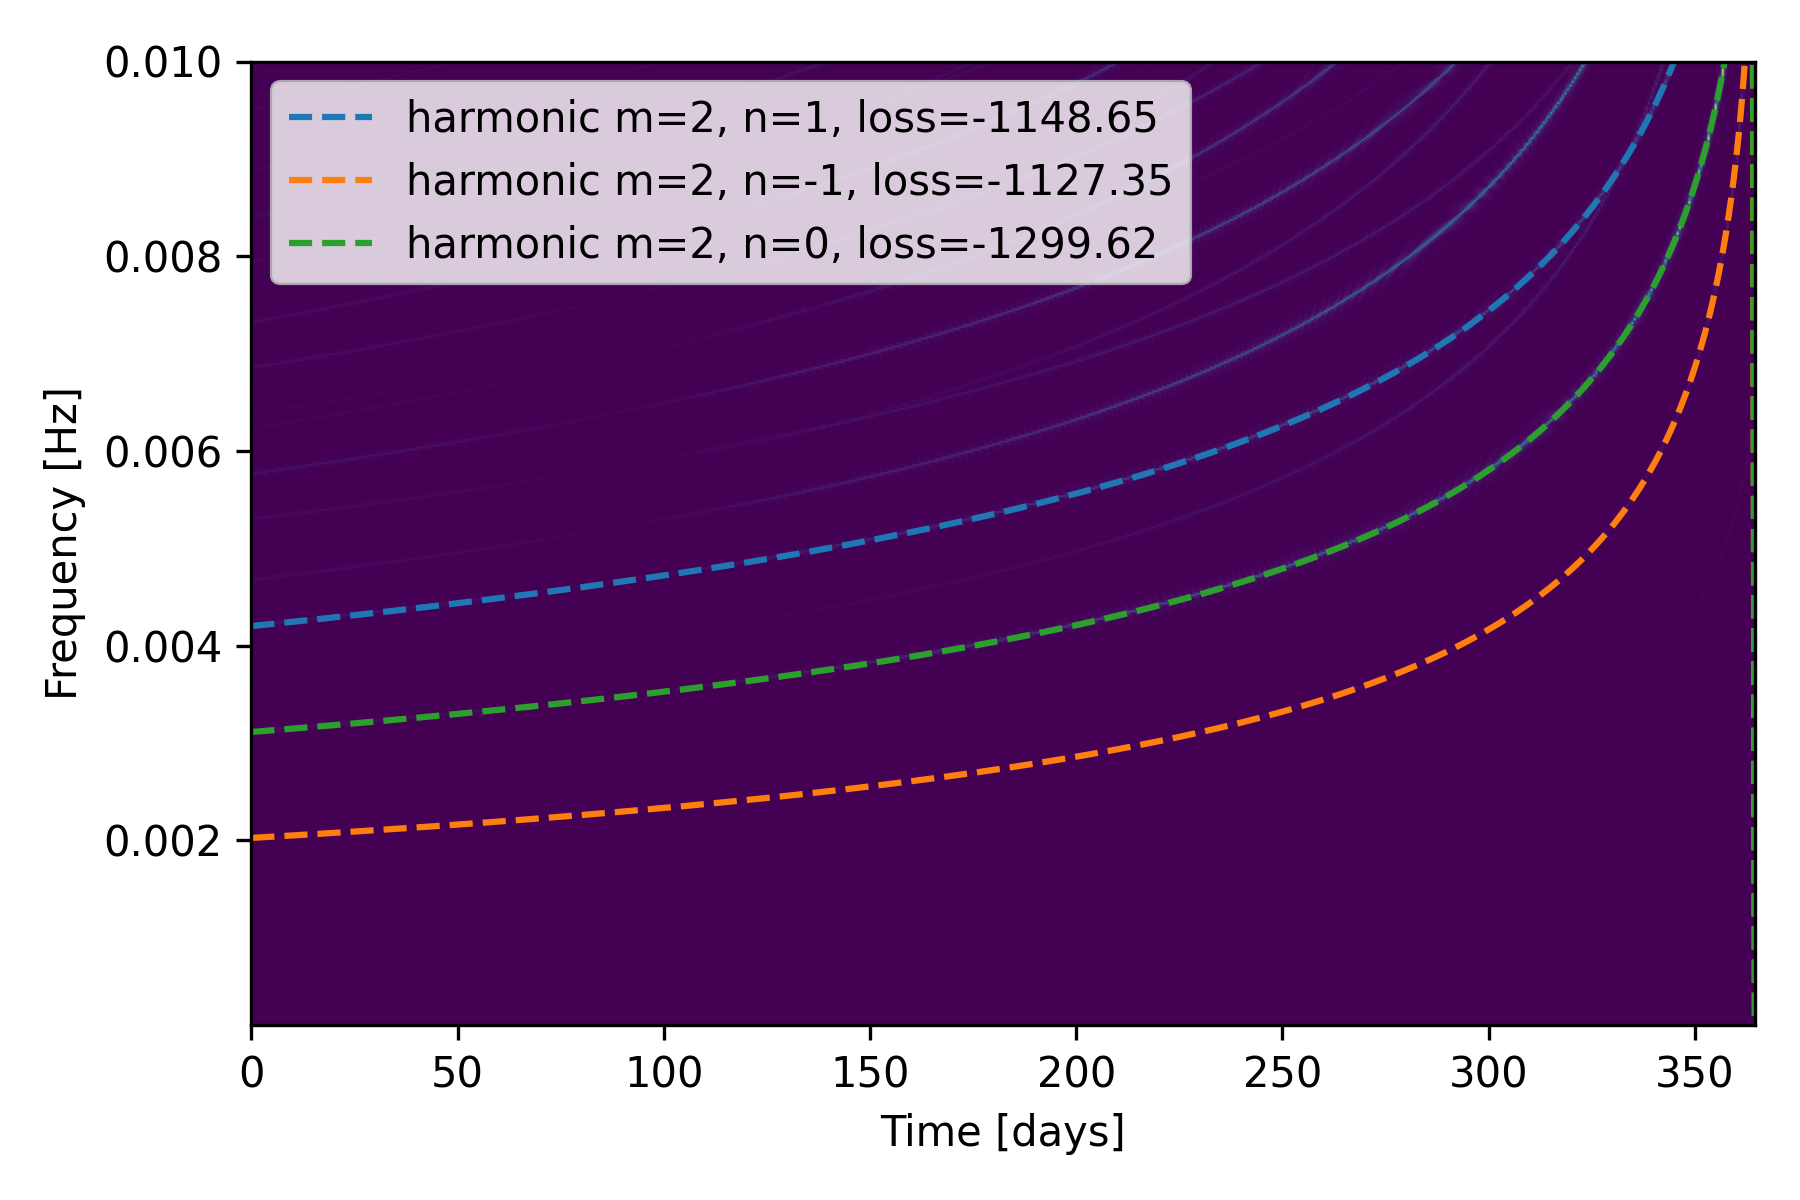
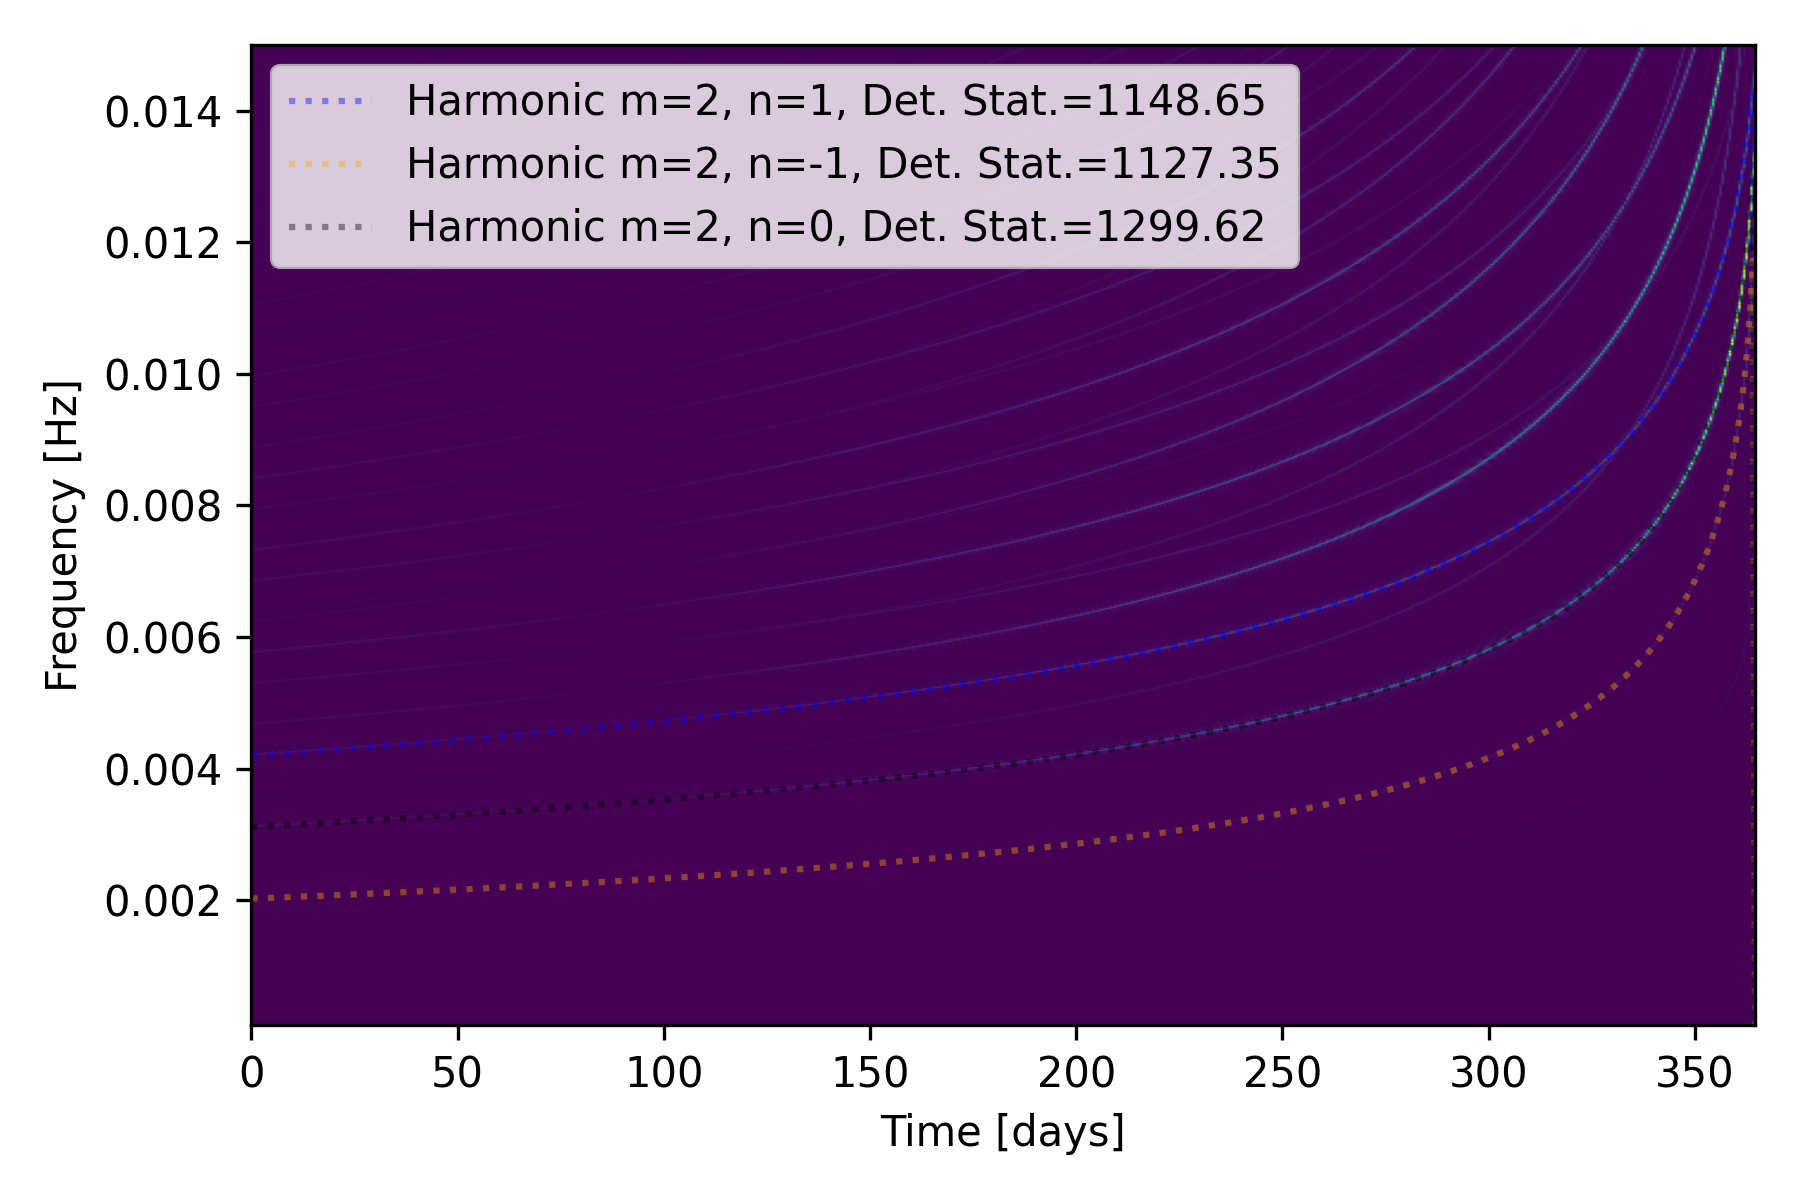
update readme

diff --git a/README.md b/README.md
@@ -5,11 +5,14 @@ This repository implements a search pipeline for detecting Extreme Mass Ratio In
 
 For a quick, simplified EMRI search, open and run [QuickStartEMRIsearch.ipynb](QuickStartEMRIsearch.ipynb). The notebook walks through the pipeline and produces example outputs, including:
 
-- Data comparison: the injected EMRI signal (with noise) versus the recovered signal after masking the best-fit track.
+- Injected waveform and three harmonics with their corresponding detection statistic values.
+  ![Waveform Injection](quick_start_results/true_frequency_track.png)
+
+- Top panel: the injected EMRI signal with noise. Bottom panel: the recovered signal after masking the best-fit track of the dominant harmonic.
 
   ![Data Comparison](quick_start_results/data_comparison.png)
 
-- Visualizations of the optimization process and the recovered track evolution (see the GIFs above).
+- Visualizations of the optimization process and the recovered track evolution.
 
 <p align="center">
   <img src="quick_start_results/frequency_evolution_2panel_animation.gif" alt="Track Evolution" style="width:100%;"/>
@@ -70,7 +73,11 @@ Open [QuickStartEMRIsearch.ipynb](QuickStartEMRIsearch.ipynb) and run the notebo
 
 ## Repository Structure
 
-High-level layout and purpose of important files.
+High-level overview of the repository’s key files and their purposes. Each script can be run to generate a demonstration plot showing typical usage of the functions it defines. You can run all scripts with 
+
+```bash
+python da_utils.py; python emri_utils.py; python search_utils.py; python jax_utils.py; python jax_de_utils.py; python draw_population.py;
+```
 
 ### Core Utilities
 
